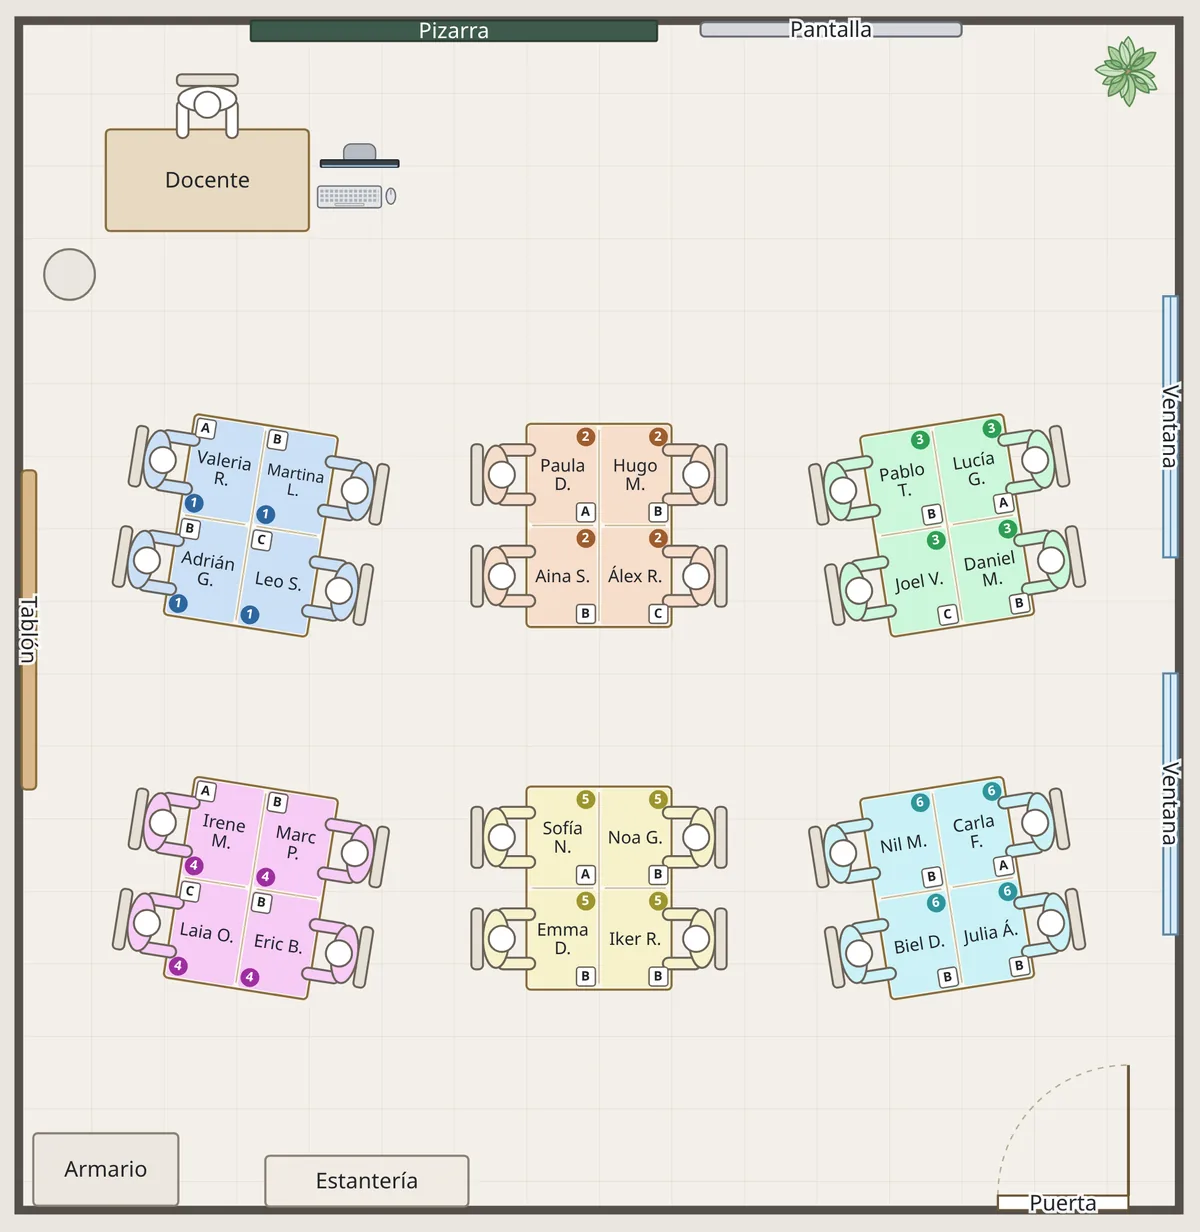
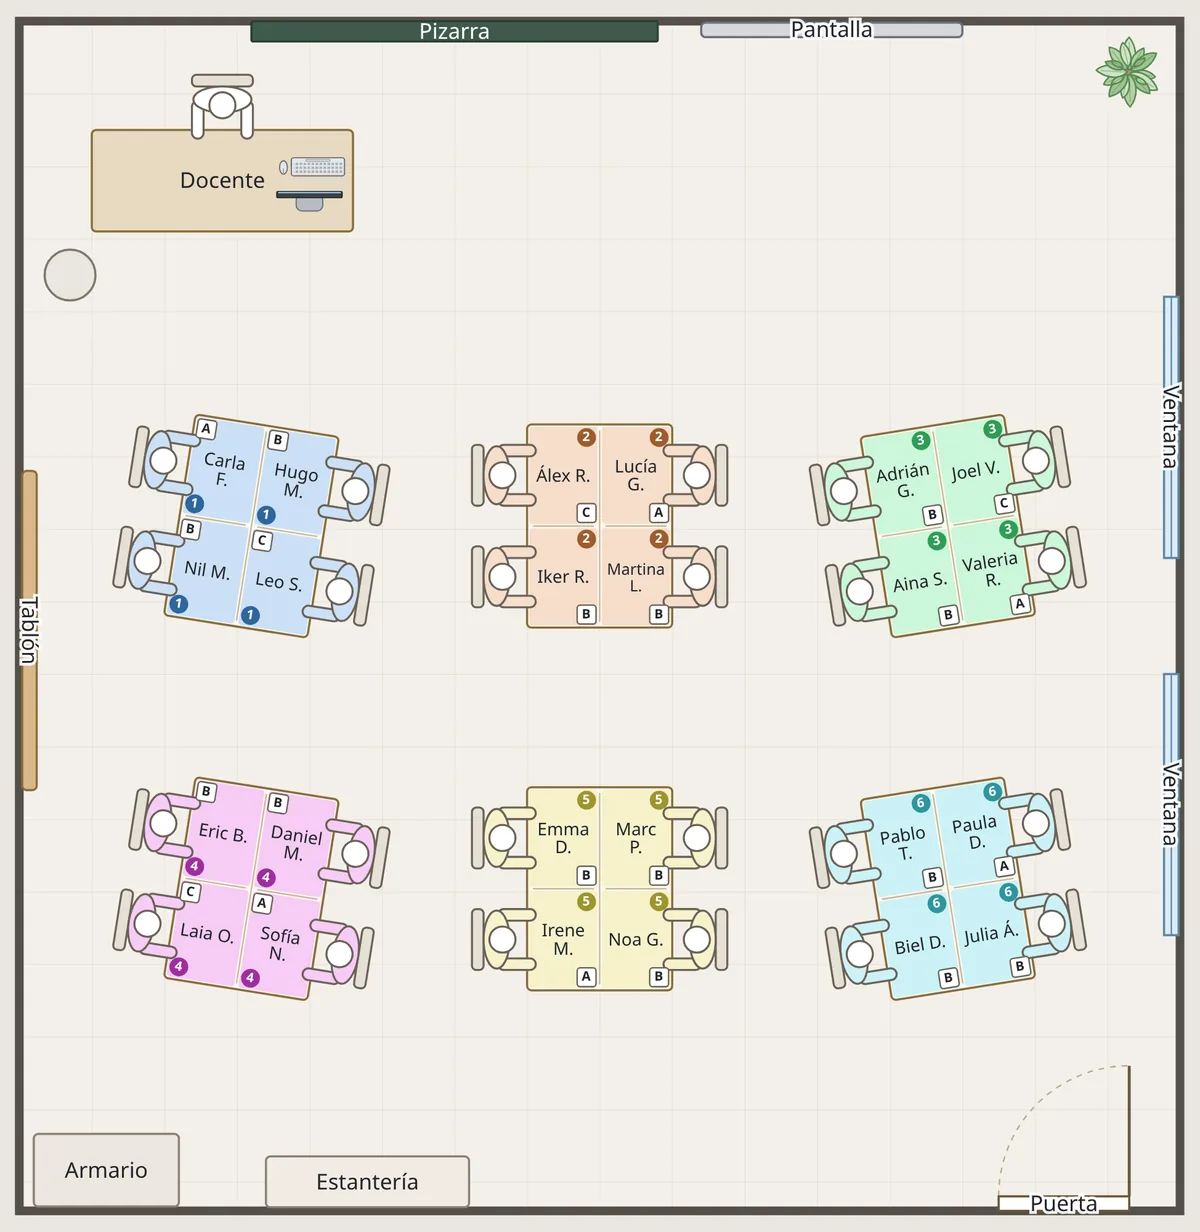
Captura de ejemplo: el ordenador, sobre la mesa del docente

diff --git a/presentacion.html b/presentacion.html
@@ -109,7 +109,7 @@
 
     <figure>
       <img src="img/ejemplo-aula.webp" width="1200" height="1232"
-        alt="Plano de un aula con pizarra, pantalla, mesa del docente, tablón, dos ventanas, armario, estantería y puerta. En el centro, seis mesas de grupo de cuatro puestos, cada una de un color y con un número de equipo. Junto a cada nombre aparece una letra A, B o C. Las mesas de los lados están giradas hacia la pizarra.">
+        alt="Plano de un aula con pizarra, pantalla, mesa del docente con ordenador, tablón, dos ventanas, armario, estantería y puerta. En el centro, seis mesas de grupo de cuatro puestos, cada una de un color y con un número de equipo. Junto a cada nombre aparece una letra A, B o C. Las mesas de los lados están giradas hacia la pizarra.">
       <figcaption>Ejemplo: un aula de 8 × 8,2 m con 24 alumnos en seis equipos heterogéneos, colocados por el propio programa. Cada color es un equipo y la letra de cada puesto indica la tipología. Las mesas de los lados se orientan hacia la pizarra y quedan pasillos para circular.</figcaption>
     </figure>
 
